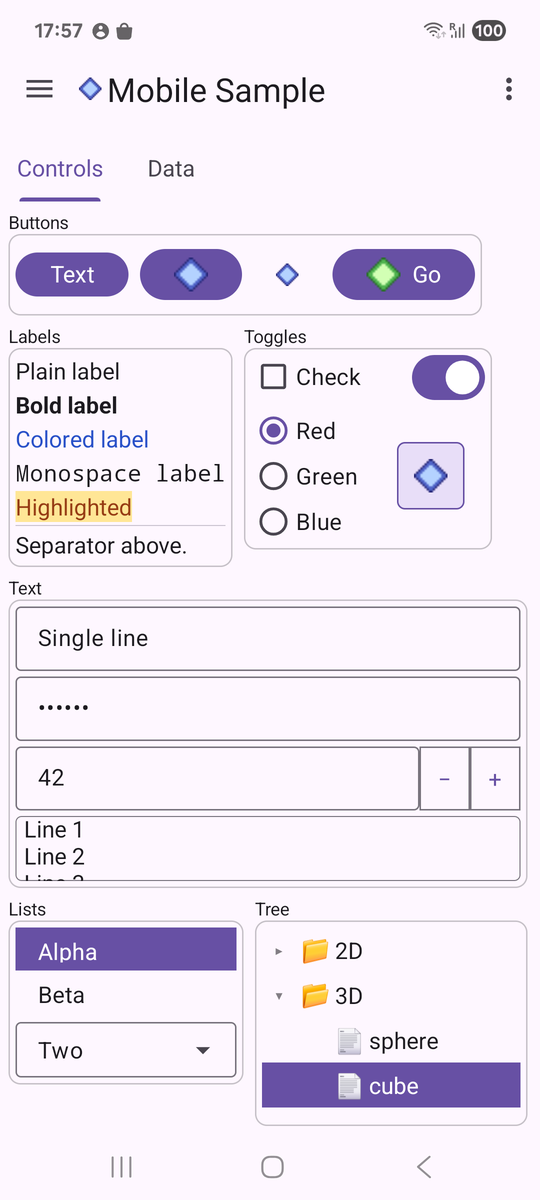
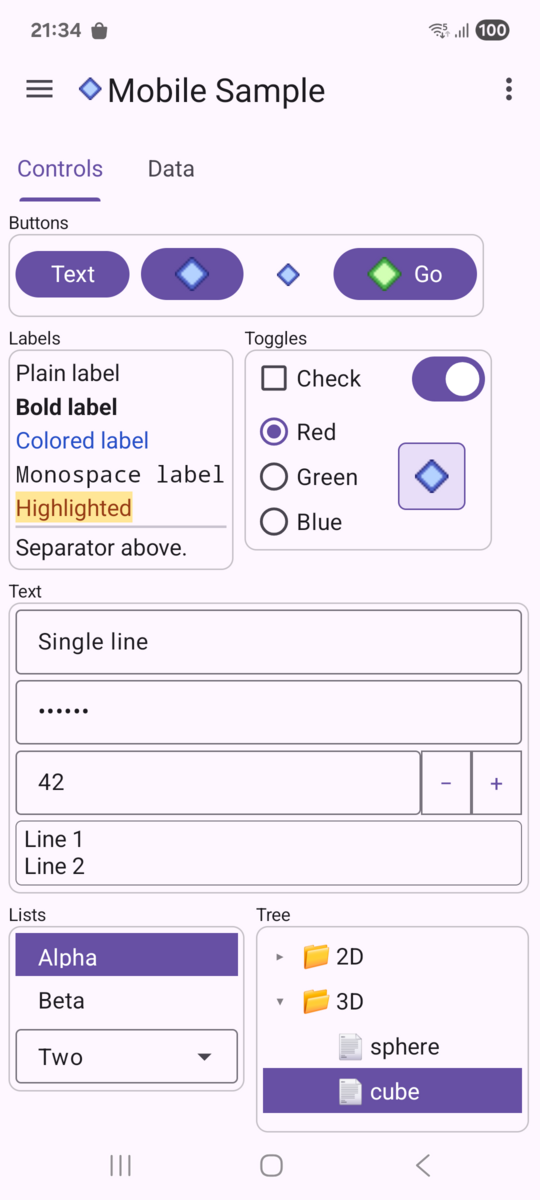
android: Pad the multiline viewport instead of its content

diff --git a/iup/external/android/library/src/main/java/io/github/gen2brain/iupgo/IupTextHelper.java b/iup/external/android/library/src/main/java/io/github/gen2brain/iupgo/IupTextHelper.java
@@ -287,6 +287,10 @@ public final class IupTextHelper
         }
         sv.setTag(tv);
         tv.setBackground(null);
+        /* vertical padding on the viewport, on the content it scrolls away and shows part of another line */
+        int padV = tv.getPaddingTop() + tv.getPaddingBottom();
+        tv.setPadding(tv.getPaddingLeft(), 0, tv.getPaddingRight(), 0);
+        sv.setPadding(0, padV / 2, 0, padV - padV / 2);
         sThemableBoxes.put(sv, Boolean.TRUE);
         applyBoxPalette(sv);
         installCallbacks(tv);
@@ -729,7 +733,13 @@ public final class IupTextHelper
     {
         IupEditText tv = resolve(v);
         if (tv == null) return;
-        tv.setPadding(h, vp, h, vp);
+        if (v instanceof NestedScrollView)
+        {
+            tv.setPadding(h, 0, h, 0);
+            v.setPadding(0, vp, 0, vp);
+        }
+        else
+            tv.setPadding(h, vp, h, vp);
     }
 
     @Keep
